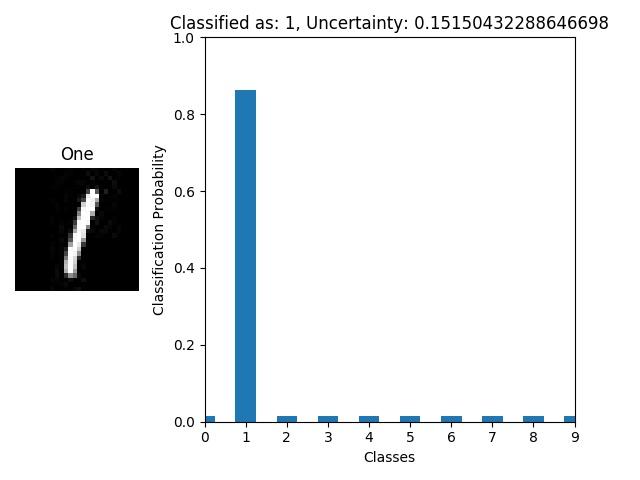
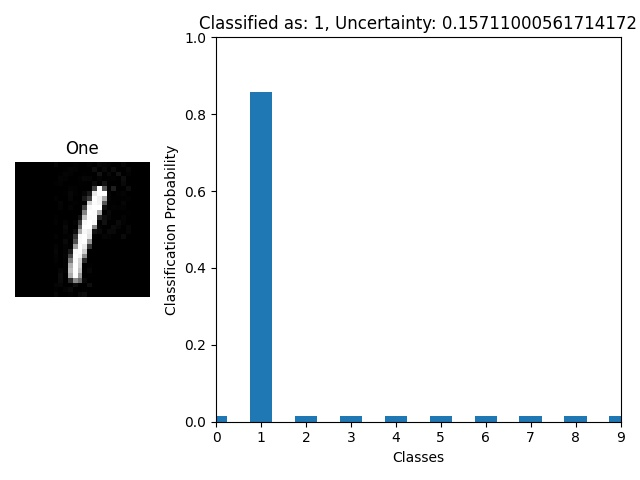
Updating plots with new KL divergence calc

diff --git a/main.py b/main.py
@@ -24,25 +24,38 @@ def main():
 
     parser = argparse.ArgumentParser()
     mode_group = parser.add_mutually_exclusive_group(required=True)
-    mode_group.add_argument("--train", action="store_true",
-                            help="To train the network.")
-    mode_group.add_argument("--test", action="store_true",
-                            help="To test the network.")
-    mode_group.add_argument("--examples", action="store_true",
-                            help="To example MNIST data.")
-    parser.add_argument("--epochs", default=10, type=int,
-                        help="Desired number of epochs.")
-    parser.add_argument("--dropout", action="store_true",
-                        help="Whether to use dropout or not.")
-    parser.add_argument("--uncertainty", action="store_true",
-                        help="Use uncertainty or not.")
+    mode_group.add_argument(
+        "--train", action="store_true", help="To train the network."
+    )
+    mode_group.add_argument("--test", action="store_true", help="To test the network.")
+    mode_group.add_argument(
+        "--examples", action="store_true", help="To example MNIST data."
+    )
+    parser.add_argument(
+        "--epochs", default=10, type=int, help="Desired number of epochs."
+    )
+    parser.add_argument(
+        "--dropout", action="store_true", help="Whether to use dropout or not."
+    )
+    parser.add_argument(
+        "--uncertainty", action="store_true", help="Use uncertainty or not."
+    )
     uncertainty_type_group = parser.add_mutually_exclusive_group()
-    uncertainty_type_group.add_argument("--mse", action="store_true",
-                                        help="Set this argument when using uncertainty. Sets loss function to Expected Mean Square Error.")
-    uncertainty_type_group.add_argument("--digamma", action="store_true",
-                                        help="Set this argument when using uncertainty. Sets loss function to Expected Cross Entropy.")
-    uncertainty_type_group.add_argument("--log", action="store_true",
-                                        help="Set this argument when using uncertainty. Sets loss function to Negative Log of the Expected Likelihood.")
+    uncertainty_type_group.add_argument(
+        "--mse",
+        action="store_true",
+        help="Set this argument when using uncertainty. Sets loss function to Expected Mean Square Error.",
+    )
+    uncertainty_type_group.add_argument(
+        "--digamma",
+        action="store_true",
+        help="Set this argument when using uncertainty. Sets loss function to Expected Cross Entropy.",
+    )
+    uncertainty_type_group.add_argument(
+        "--log",
+        action="store_true",
+        help="Set this argument when using uncertainty. Sets loss function to Negative Log of the Expected Likelihood.",
+    )
     args = parser.parse_args()
 
     if args.examples:
@@ -50,7 +63,7 @@ def main():
         batch_idx, (example_data, example_targets) = next(examples)
         fig = plt.figure()
         for i in range(6):
-            plt.subplot(2, 3, i+1)
+            plt.subplot(2, 3, i + 1)
             plt.tight_layout()
             plt.imshow(example_data[i][0], cmap="gray", interpolation="none")
             plt.title("Ground Truth: {}".format(example_targets[i]))
@@ -73,22 +86,28 @@ def main():
             elif args.mse:
                 criterion = edl_mse_loss
             else:
-                parser.error(
-                    "--uncertainty requires --mse, --log or --digamma.")
+                parser.error("--uncertainty requires --mse, --log or --digamma.")
         else:
             criterion = nn.CrossEntropyLoss()
 
         optimizer = optim.Adam(model.parameters(), lr=1e-3, weight_decay=0.005)
 
-        exp_lr_scheduler = optim.lr_scheduler.StepLR(
-            optimizer, step_size=7, gamma=0.1)
+        exp_lr_scheduler = optim.lr_scheduler.StepLR(optimizer, step_size=7, gamma=0.1)
 
         device = get_device()
         model = model.to(device)
 
-        model, metrics = train_model(model, dataloaders, num_classes, criterion,
-                                     optimizer, scheduler=exp_lr_scheduler, num_epochs=num_epochs,
-                                     device=device, uncertainty=use_uncertainty)
+        model, metrics = train_model(
+            model,
+            dataloaders,
+            num_classes,
+            criterion,
+            optimizer,
+            scheduler=exp_lr_scheduler,
+            num_epochs=num_epochs,
+            device=device,
+            uncertainty=use_uncertainty,
+        )
 
         state = {
             "epoch": num_epochs,
@@ -121,8 +140,7 @@ def main():
 
         if use_uncertainty:
             if args.digamma:
-                checkpoint = torch.load(
-                    "./results/model_uncertainty_digamma.pt")
+                checkpoint = torch.load("./results/model_uncertainty_digamma.pt")
                 filename = "./results/rotate_uncertainty_digamma.jpg"
             if args.log:
                 checkpoint = torch.load("./results/model_uncertainty_log.pt")
@@ -141,11 +159,11 @@ def main():
         model.eval()
 
         rotating_image_classification(
-            model, digit_one, filename, uncertainty=use_uncertainty)
+            model, digit_one, filename, uncertainty=use_uncertainty
+        )
 
-        img = Image.open("./data/one.jpg").convert('L')
-
-        test_single_image(model, img, uncertainty=use_uncertainty)
+        test_single_image(model, "./data/one.jpg", uncertainty=use_uncertainty)
+        test_single_image(model, "./data/yoda.jpg", uncertainty=use_uncertainty)
 
 
 if __name__ == "__main__":

diff --git a/test.py b/test.py
@@ -2,21 +2,20 @@ import torch
 from torch.autograd import Variable
 import torch.nn.functional as F
 import torchvision.transforms as transforms
-
+import os
 import numpy as np
 from matplotlib import pyplot as plt
-
+from PIL import Image
 from losses import relu_evidence
 from helpers import rotate_img, one_hot_embedding, get_device
 
 
-def test_single_image(model, img, uncertainty=False, device=None):
+def test_single_image(model, img_path, uncertainty=False, device=None):
+    img = Image.open(img_path).convert("L")
     if not device:
         device = get_device()
     num_classes = 10
-    trans = transforms.Compose([
-        transforms.Resize((28, 28)),
-        transforms.ToTensor()])
+    trans = transforms.Compose([transforms.Resize((28, 28)), transforms.ToTensor()])
     img_tensor = trans(img)
     img_tensor.unsqueeze_(0)
     img_variable = Variable(img_tensor)
@@ -49,10 +48,9 @@ def test_single_image(model, img, uncertainty=False, device=None):
 
     labels = np.arange(10)
     fig = plt.figure(figsize=[6.2, 5])
-    fig, axs = plt.subplots(1, 2, gridspec_kw={"width_ratios": [1,  3]})
+    fig, axs = plt.subplots(1, 2, gridspec_kw={"width_ratios": [1, 3]})
 
-    plt.title("Classified as: {}, Uncertainty: {}".format(
-        preds[0], uncertainty.item()))
+    plt.title("Classified as: {}, Uncertainty: {}".format(preds[0], uncertainty.item()))
 
     axs[0].set_title("One")
     axs[0].imshow(img, cmap="gray")
@@ -67,10 +65,12 @@ def test_single_image(model, img, uncertainty=False, device=None):
 
     fig.tight_layout()
 
-    plt.savefig("./results/one.jpg")
+    plt.savefig("./results/{}".format(os.path.basename(img_path)))
 
 
-def rotating_image_classification(model, img, filename, uncertainty=False, threshold=0.5, device=None):
+def rotating_image_classification(
+    model, img, filename, uncertainty=False, threshold=0.5, device=None
+):
     if not device:
         device = get_device()
     num_classes = 10
@@ -88,7 +88,7 @@ def rotating_image_classification(model, img, filename, uncertainty=False, thres
 
         nimg = np.clip(a=nimg, a_min=0, a_max=1)
 
-        rimgs[:, i*28:(i+1)*28] = nimg
+        rimgs[:, i * 28 : (i + 1) * 28] = nimg
         trans = transforms.ToTensor()
         img_tensor = trans(nimg)
         img_tensor.unsqueeze_(0)
@@ -125,7 +125,7 @@ def rotating_image_classification(model, img, filename, uncertainty=False, thres
     labels = np.arange(10)[scores[0].astype(bool)]
     lp = np.array(lp)[:, labels]
     c = ["black", "blue", "red", "brown", "purple", "cyan"]
-    marker = ["s", "^", "o"]*2
+    marker = ["s", "^", "o"] * 2
     labels = labels.tolist()
     fig = plt.figure(figsize=[6.2, 5])
     fig, axs = plt.subplots(3, gridspec_kw={"height_ratios": [4, 1, 12]})
@@ -139,7 +139,7 @@ def rotating_image_classification(model, img, filename, uncertainty=False, thres
 
     print(classifications)
 
-    axs[0].set_title("Rotated \"1\" Digit Classifications")
+    axs[0].set_title('Rotated "1" Digit Classifications')
     axs[0].imshow(1 - rimgs, cmap="gray")
     axs[0].axis("off")
     plt.pause(0.001)
